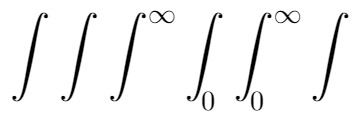
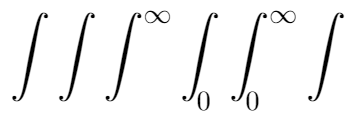
Take the space after a script only when there is one
A large operator with no limits went through the script layout and came out with the trailing script
space anyway, which widened every bare integral. Cursor tests now cover the atomic contract: a large
operator offers no position inside its limits, and backspace and delete take it away whole.

diff --git a/examples/README.md b/examples/README.md
@@ -19,7 +19,7 @@ Generated by `dotnet run --project tools/RenderExamples -- examples` at 40 point
 | FractionWithRoot | 74×112 | ![FractionWithRoot](FractionWithRoot.png) |
 | FunctionDomainCodomain | 181×57 | ![FunctionDomainCodomain](FunctionDomainCodomain.png) |
 | IntPlusFraction | 109×103 | ![IntPlusFraction](IntPlusFraction.png) |
-| IntegralScripts | 363×121 | ![IntegralScripts](IntegralScripts.png) |
+| IntegralScripts | 356×121 | ![IntegralScripts](IntegralScripts.png) |
 | ItalicScripts | 361×74 | ![ItalicScripts](ItalicScripts.png) |
 | LeftRight | 94×106 | ![LeftRight](LeftRight.png) |
 | LeftRightMinus | 125×106 | ![LeftRightMinus](LeftRightMinus.png) |
